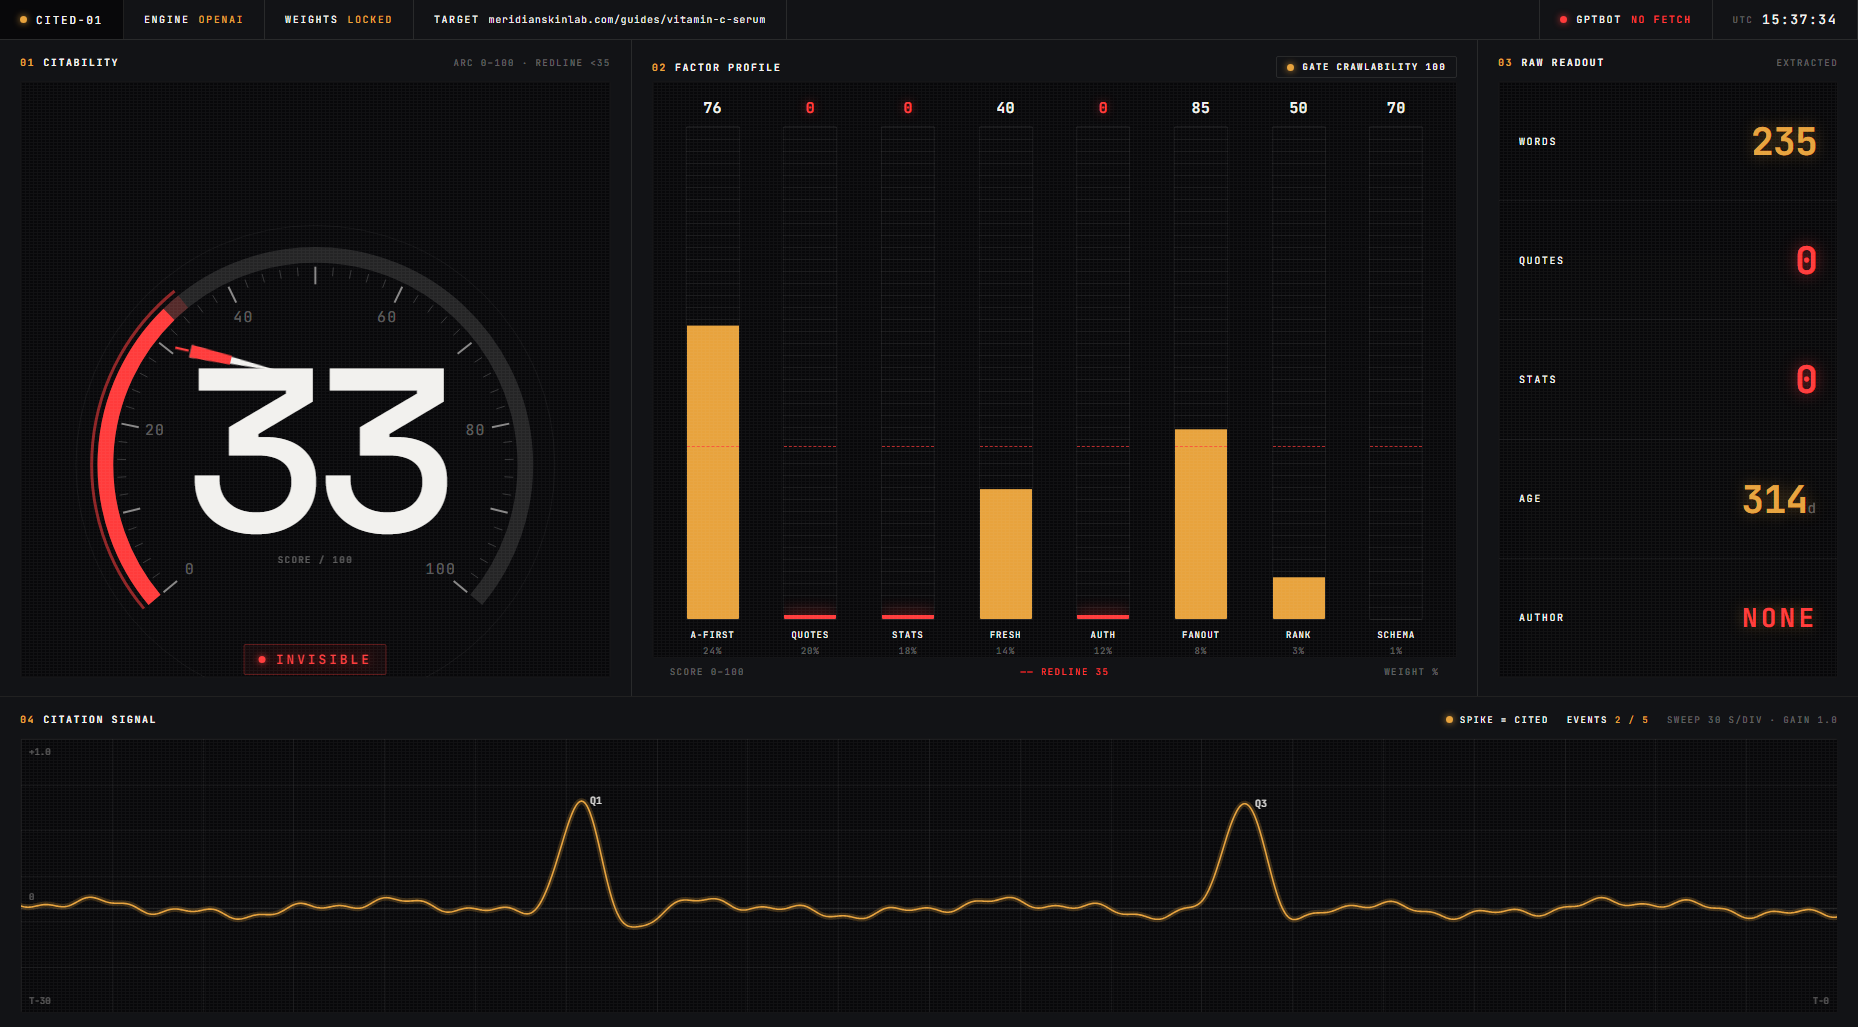
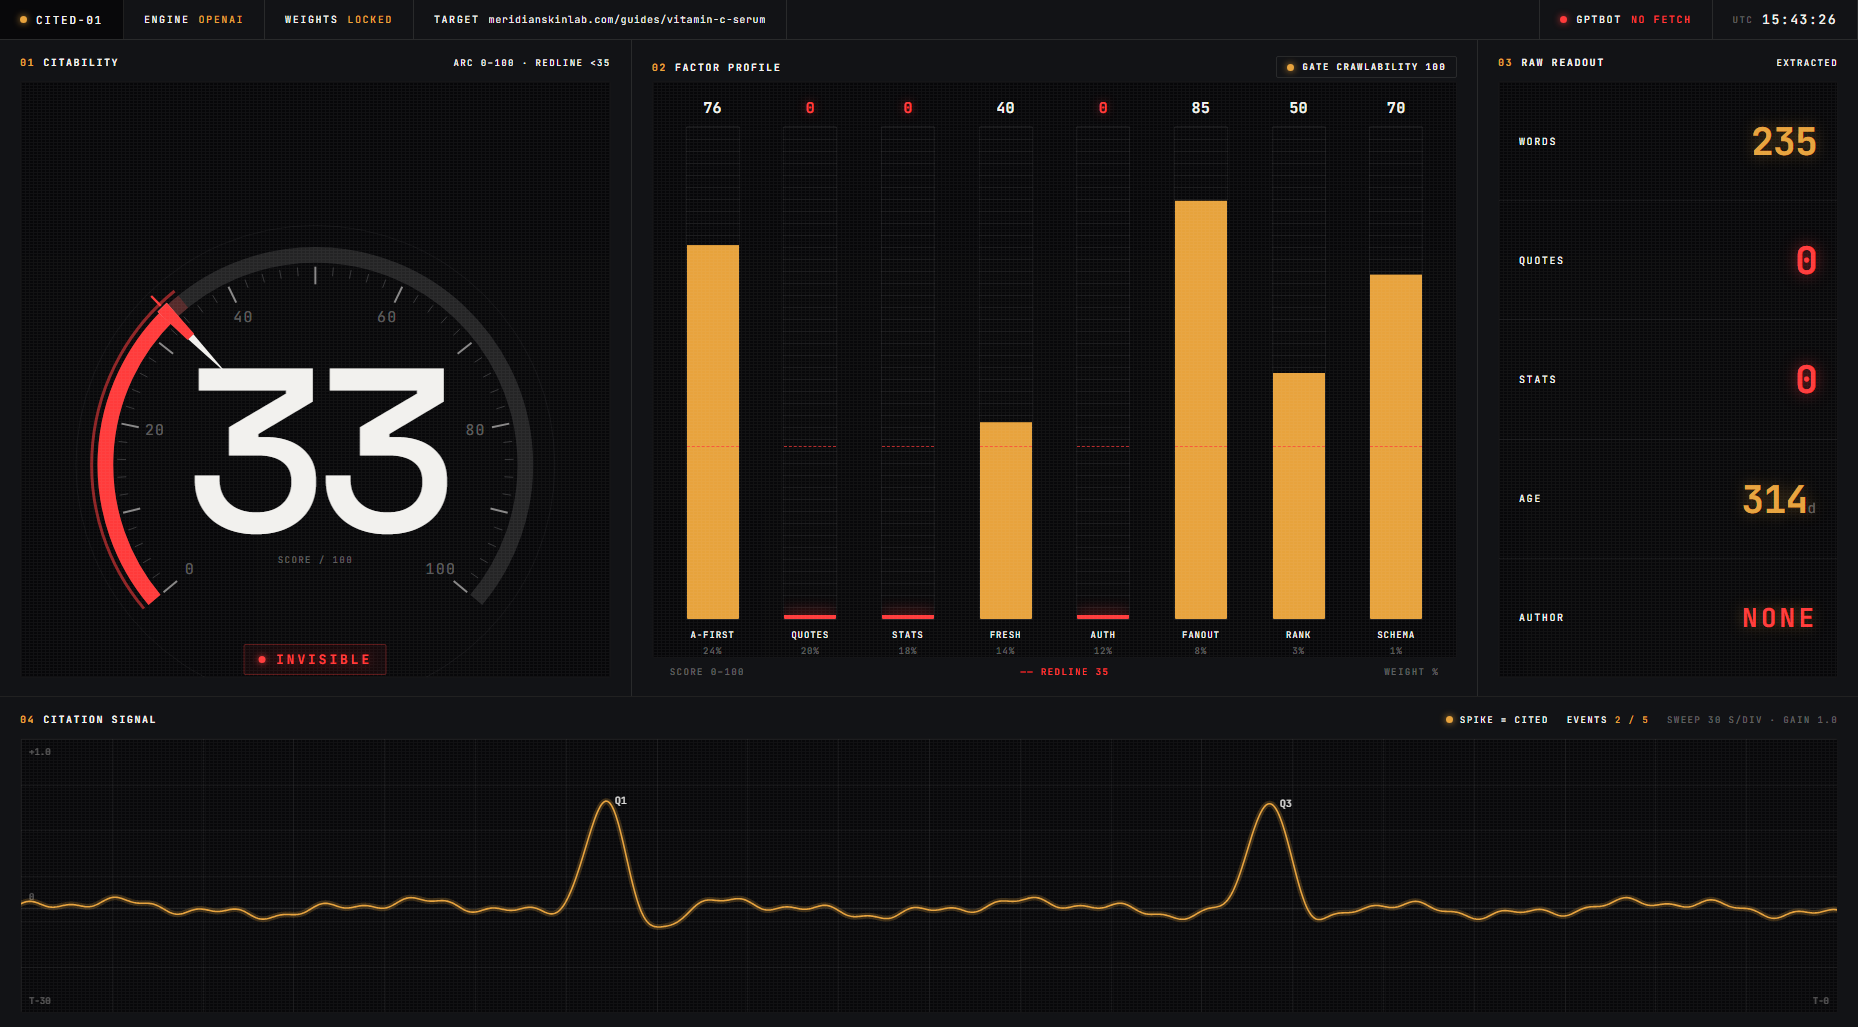
design: final agent tweaks to variants D and E, D shot captured in settled state

diff --git a/design/mockups/variant-e-editorial.html b/design/mockups/variant-e-editorial.html
@@ -38,7 +38,7 @@
   --display-cover-2: clamp(200px, 15.0vw, 279px);
   --display-score: clamp(400px, 25vw, 462px);
   --display-delta: clamp(260px, 17vw, 316px);
-  --quote:         clamp(44px, 3.6vw, 60px);
+  --quote:         clamp(56px, 4.6vw, 78px);
   --row-name:      26px;
   --body:          20px;
   --micro:         11px;
@@ -305,29 +305,21 @@ body {
 .factor.is-zero .factor__name  { color: var(--ink); }
 
 /* red rule struck through the failing rows */
+/* Default state is fully drawn, so any static render — print, screenshot,
+   JS disabled — shows the correct final mark. JS arms the reveal. */
 .factor__strike {
   position: absolute;
   left: 0;
-  right: 156px;          /* stops clear of the score column */
-  top: 50%;
+  right: 276px;          /* stops clear of the weight and score figures */
+  top: calc(50% - 1px);
   height: 2px;
-  overflow: visible;
+  background: var(--red);
+  transform-origin: left center;
   pointer-events: none;
 }
 
-/* Default state is fully drawn, so any static render — print, screenshot,
-   JS disabled — shows the correct final mark. JS arms the reveal. */
-.factor__strike line {
-  stroke: var(--red);
-  stroke-width: 2;
-  stroke-dasharray: 1 1;
-  stroke-dashoffset: 0;
-}
-
-.js-anim .factor:not(.is-revealed) .factor__strike line { stroke-dashoffset: 1; }
-.js-anim .factor__strike line {
-  transition: stroke-dashoffset 900ms cubic-bezier(0.16, 1, 0.3, 1);
-}
+.js-anim .factor__strike { transition: transform 900ms cubic-bezier(0.16, 1, 0.3, 1); }
+.js-anim .factor:not(.is-revealed) .factor__strike { transform: scaleX(0); }
 
 /* ============================================================
    3 — THE EVIDENCE
@@ -353,7 +345,6 @@ body {
 .pull { margin-top: clamp(48px, 8vh, 104px); }
 
 .pull blockquote {
-  max-width: 1040px;
   font-family: var(--serif);
   font-style: italic;
   font-weight: 400;
@@ -417,7 +408,7 @@ body {
 
 .delta {
   display: flex;
-  align-items: flex-end;
+  align-items: center;
   gap: clamp(24px, 2.4vw, 44px);
   margin-top: clamp(20px, 3vh, 44px);
 }
@@ -432,16 +423,16 @@ body {
 }
 .delta__num.is-red { color: var(--red); }
 
-.delta__arrow { flex: 0 0 auto; margin-bottom: 0.24em; }
+.delta__arrow { flex: 0 0 auto; }
 .delta__arrow path { stroke: var(--ink); stroke-width: 3; fill: none; }
 
 .delta__cap {
   margin-left: auto;
+  align-self: flex-end;
   text-align: right;
   color: var(--ink-meta);
   max-width: 300px;
   line-height: 1.9;
-  padding-bottom: 6px;
 }
 
 /* queries */
@@ -497,7 +488,8 @@ body {
 
 .result__close {
   margin-top: auto;
-  padding-top: clamp(36px, 6vh, 72px);
+  padding-top: 22px;
+  border-top: 1px solid var(--hair-strong);
   display: flex;
   align-items: baseline;
   justify-content: space-between;
@@ -509,16 +501,6 @@ body {
   font-size: var(--body);
   color: var(--ink);
   max-width: 700px;
-}
-
-.colophon {
-  border-top: 1px solid var(--hair-strong);
-  padding-top: 16px;
-  padding-bottom: 40px;
-  display: flex;
-  justify-content: space-between;
-  gap: 32px;
-  color: var(--ink-meta);
 }
 
 /* section 2 footer */
@@ -552,9 +534,8 @@ body {
   <hr class="rule--dark">
 
   <h1 class="cover__display">
-    <span class="l1" style="font-size:clamp(170px,18vw,334px);line-height:.84;display:block">Ranked.</span>
-    <span class="l2" style="font-size:clamp(130px,13vw,242px);line-height:.9;display:block"><em class="italic">Never</em></span>
-    <span class="l2 red" style="font-size:clamp(130px,13vw,242px);line-height:.9;display:block;margin-left:.05em">quoted.</span>
+    <span class="l1">Ranked.</span>
+    <span class="l2"><em class="italic">Never</em> <span class="red">quoted.</span></span>
   </h1>
 
   <p class="cover__lede">Google ranks this page. ChatGPT has never read it, and never quotes it.</p>
@@ -619,14 +600,14 @@ body {
         <div class="factor__name">Sourced quotes</div>
         <div class="factor__weight">20%</div>
         <div class="factor__score">0</div>
-        <svg class="factor__strike" aria-hidden="true" preserveAspectRatio="none"><line x1="0" y1="1" x2="100%" y2="1" pathLength="1"/></svg>
+        <span class="factor__strike" aria-hidden="true"></span>
       </div>
 
       <div class="factor is-zero">
         <div class="factor__name">Quantified specificity</div>
         <div class="factor__weight">18%</div>
         <div class="factor__score">0</div>
-        <svg class="factor__strike" aria-hidden="true" preserveAspectRatio="none"><line x1="0" y1="1" x2="100%" y2="1" pathLength="1"/></svg>
+        <span class="factor__strike" aria-hidden="true"></span>
       </div>
 
       <div class="factor">
@@ -639,7 +620,7 @@ body {
         <div class="factor__name">Off-site authority</div>
         <div class="factor__weight">12%</div>
         <div class="factor__score">0</div>
-        <svg class="factor__strike" aria-hidden="true" preserveAspectRatio="none"><line x1="0" y1="1" x2="100%" y2="1" pathLength="1"/></svg>
+        <span class="factor__strike" aria-hidden="true"></span>
       </div>
 
       <div class="factor">
@@ -738,25 +719,18 @@ body {
 
   <div class="result__close">
     <p>Nine fixes later, every engine quotes the page by name.</p>
-    <span class="mono mono--meta">End of report</span>
+    <span class="mono mono--meta">meridianskinlab.com/guides/vitamin-c-serum &nbsp;/&nbsp; 25 July 2026</span>
   </div>
 </section>
-
-<div class="wrap">
-  <div class="colophon">
-    <span class="mono mono--meta">Cited / Citability Report No.&nbsp;01</span>
-    <span class="mono mono--meta">meridianskinlab.com/guides/vitamin-c-serum</span>
-    <span class="mono mono--meta">25 July 2026</span>
-  </div>
-</div>
 
 <script>
 (function () {
   var rows = document.querySelectorAll('.factor.is-zero');
-  if (!('IntersectionObserver' in window)) {
-    rows.forEach(function (r) { r.classList.add('is-revealed'); });
-    return;
-  }
+  if (!('IntersectionObserver' in window) || !rows.length) return;
+
+  /* Arm the undrawn state only now that we can guarantee we will draw it. */
+  document.documentElement.classList.add('js-anim');
+
   var io = new IntersectionObserver(function (entries) {
     entries.forEach(function (e) {
       if (!e.isIntersecting) return;

diff --git a/design/mockups/variant-d-panel.html b/design/mockups/variant-d-panel.html
@@ -19,12 +19,10 @@
 
   /* ink */
   --ink:           #F2F1EE;
-  --ink-90:        rgba(242,241,238,0.90);
 
   /* phosphor accent (ONE, held) */
   --amber:         #E8A33D;
-  --amber-half:    rgb(114,84,40);
-  --amber-dim:     rgba(232,163,61,0.28);
+  --amber-half:    rgb(114,84,40);   /* half-lit lamp, solid — no gradient */
 
   /* alarm */
   --alarm:         #FF3B3B;
@@ -34,9 +32,8 @@
   --hair:          rgba(242,241,238,0.10);
   --hair-soft:     rgba(242,241,238,0.06);
 
-  /* GREY IS FOR TICKS, UNITS AND AXIS LABELS ONLY */
+  /* GREY IS FOR TICK MARKS, UNITS AND AXIS CAPTIONS ONLY */
   --tick:          rgba(242,241,238,0.36);
-  --tick-faint:    rgba(242,241,238,0.20);
 
   /* type */
   --mono:          'JetBrains Mono', ui-monospace, 'SFMono-Regular', monospace;
@@ -73,8 +70,17 @@ body{
 .m-11{ font-size:11px; }
 .m-13{ font-size:13px; letter-spacing:0.12em; }
 
-/* grey = ticks / units / axis ONLY */
+/* meaning-carrying micro label — full contrast ink */
 .u{
+  font-family:var(--mono);
+  font-size:9px;
+  font-weight:500;
+  letter-spacing:0.16em;
+  text-transform:uppercase;
+  color:var(--ink);
+}
+/* GREY: reserved for tick marks, units and axis captions ONLY */
+.tk{
   font-family:var(--mono);
   font-size:9px;
   font-weight:400;
@@ -177,7 +183,7 @@ body{
    FOLD 1 — MAIN INSTRUMENT PANEL
    ============================================================ */
 .fold{
-  height:1027px;
+  height:100vh;
   min-height:940px;
   display:grid;
   grid-template-rows:40px minmax(0,1fr) 330px;
@@ -456,10 +462,10 @@ body{
 .q-table th{
   font-family:var(--mono);
   font-size:9px;
-  font-weight:500;
+  font-weight:700;
   letter-spacing:0.16em;
   text-transform:uppercase;
-  color:var(--tick);
+  color:var(--ink);
   text-align:left;
   padding:0 14px 10px;
   border-bottom:1px solid var(--hair);
@@ -562,7 +568,7 @@ body{
     <div class="strip-item"><span class="m">TARGET</span><span class="url-tag">meridianskinlab.com/guides/vitamin-c-serum</span></div>
     <div class="strip-spacer"></div>
     <div class="strip-item"><span class="pip red"></span><span class="m">GPTBOT</span><span class="m alarm">NO FETCH</span></div>
-    <div class="strip-item"><span class="u">UTC</span><span class="m m-13" id="clock">10:31:04</span></div>
+    <div class="strip-item"><span class="tk">UTC</span><span class="m m-13" id="clock">10:31:04</span></div>
   </div>
 
   <!-- ROW A : 01 gauge | 02 factors | 03 raw -->
@@ -594,9 +600,9 @@ body{
         <div class="bars" id="bars"></div>
       </div>
       <div class="bars-axis">
-        <span class="u">SCORE 0&ndash;100</span>
+        <span class="tk">SCORE 0&ndash;100</span>
         <span class="u alarm">&mdash;&mdash; REDLINE 35</span>
-        <span class="u">WEIGHT %</span>
+        <span class="tk">WEIGHT %</span>
       </div>
     </div>
 
@@ -623,7 +629,7 @@ body{
       <div class="legend">
         <span class="legend-item"><span class="pip"></span><span class="m m-9">SPIKE = CITED</span></span>
         <span class="legend-item"><span class="m m-9">EVENTS</span><span class="m m-9 lit">2 / 5</span></span>
-        <span class="u">SWEEP 30 S/DIV &middot; GAIN 1.0</span>
+        <span class="tk">SWEEP 30 S/DIV &middot; GAIN 1.0</span>
       </div>
     </div>
     <div class="well scope-well">
